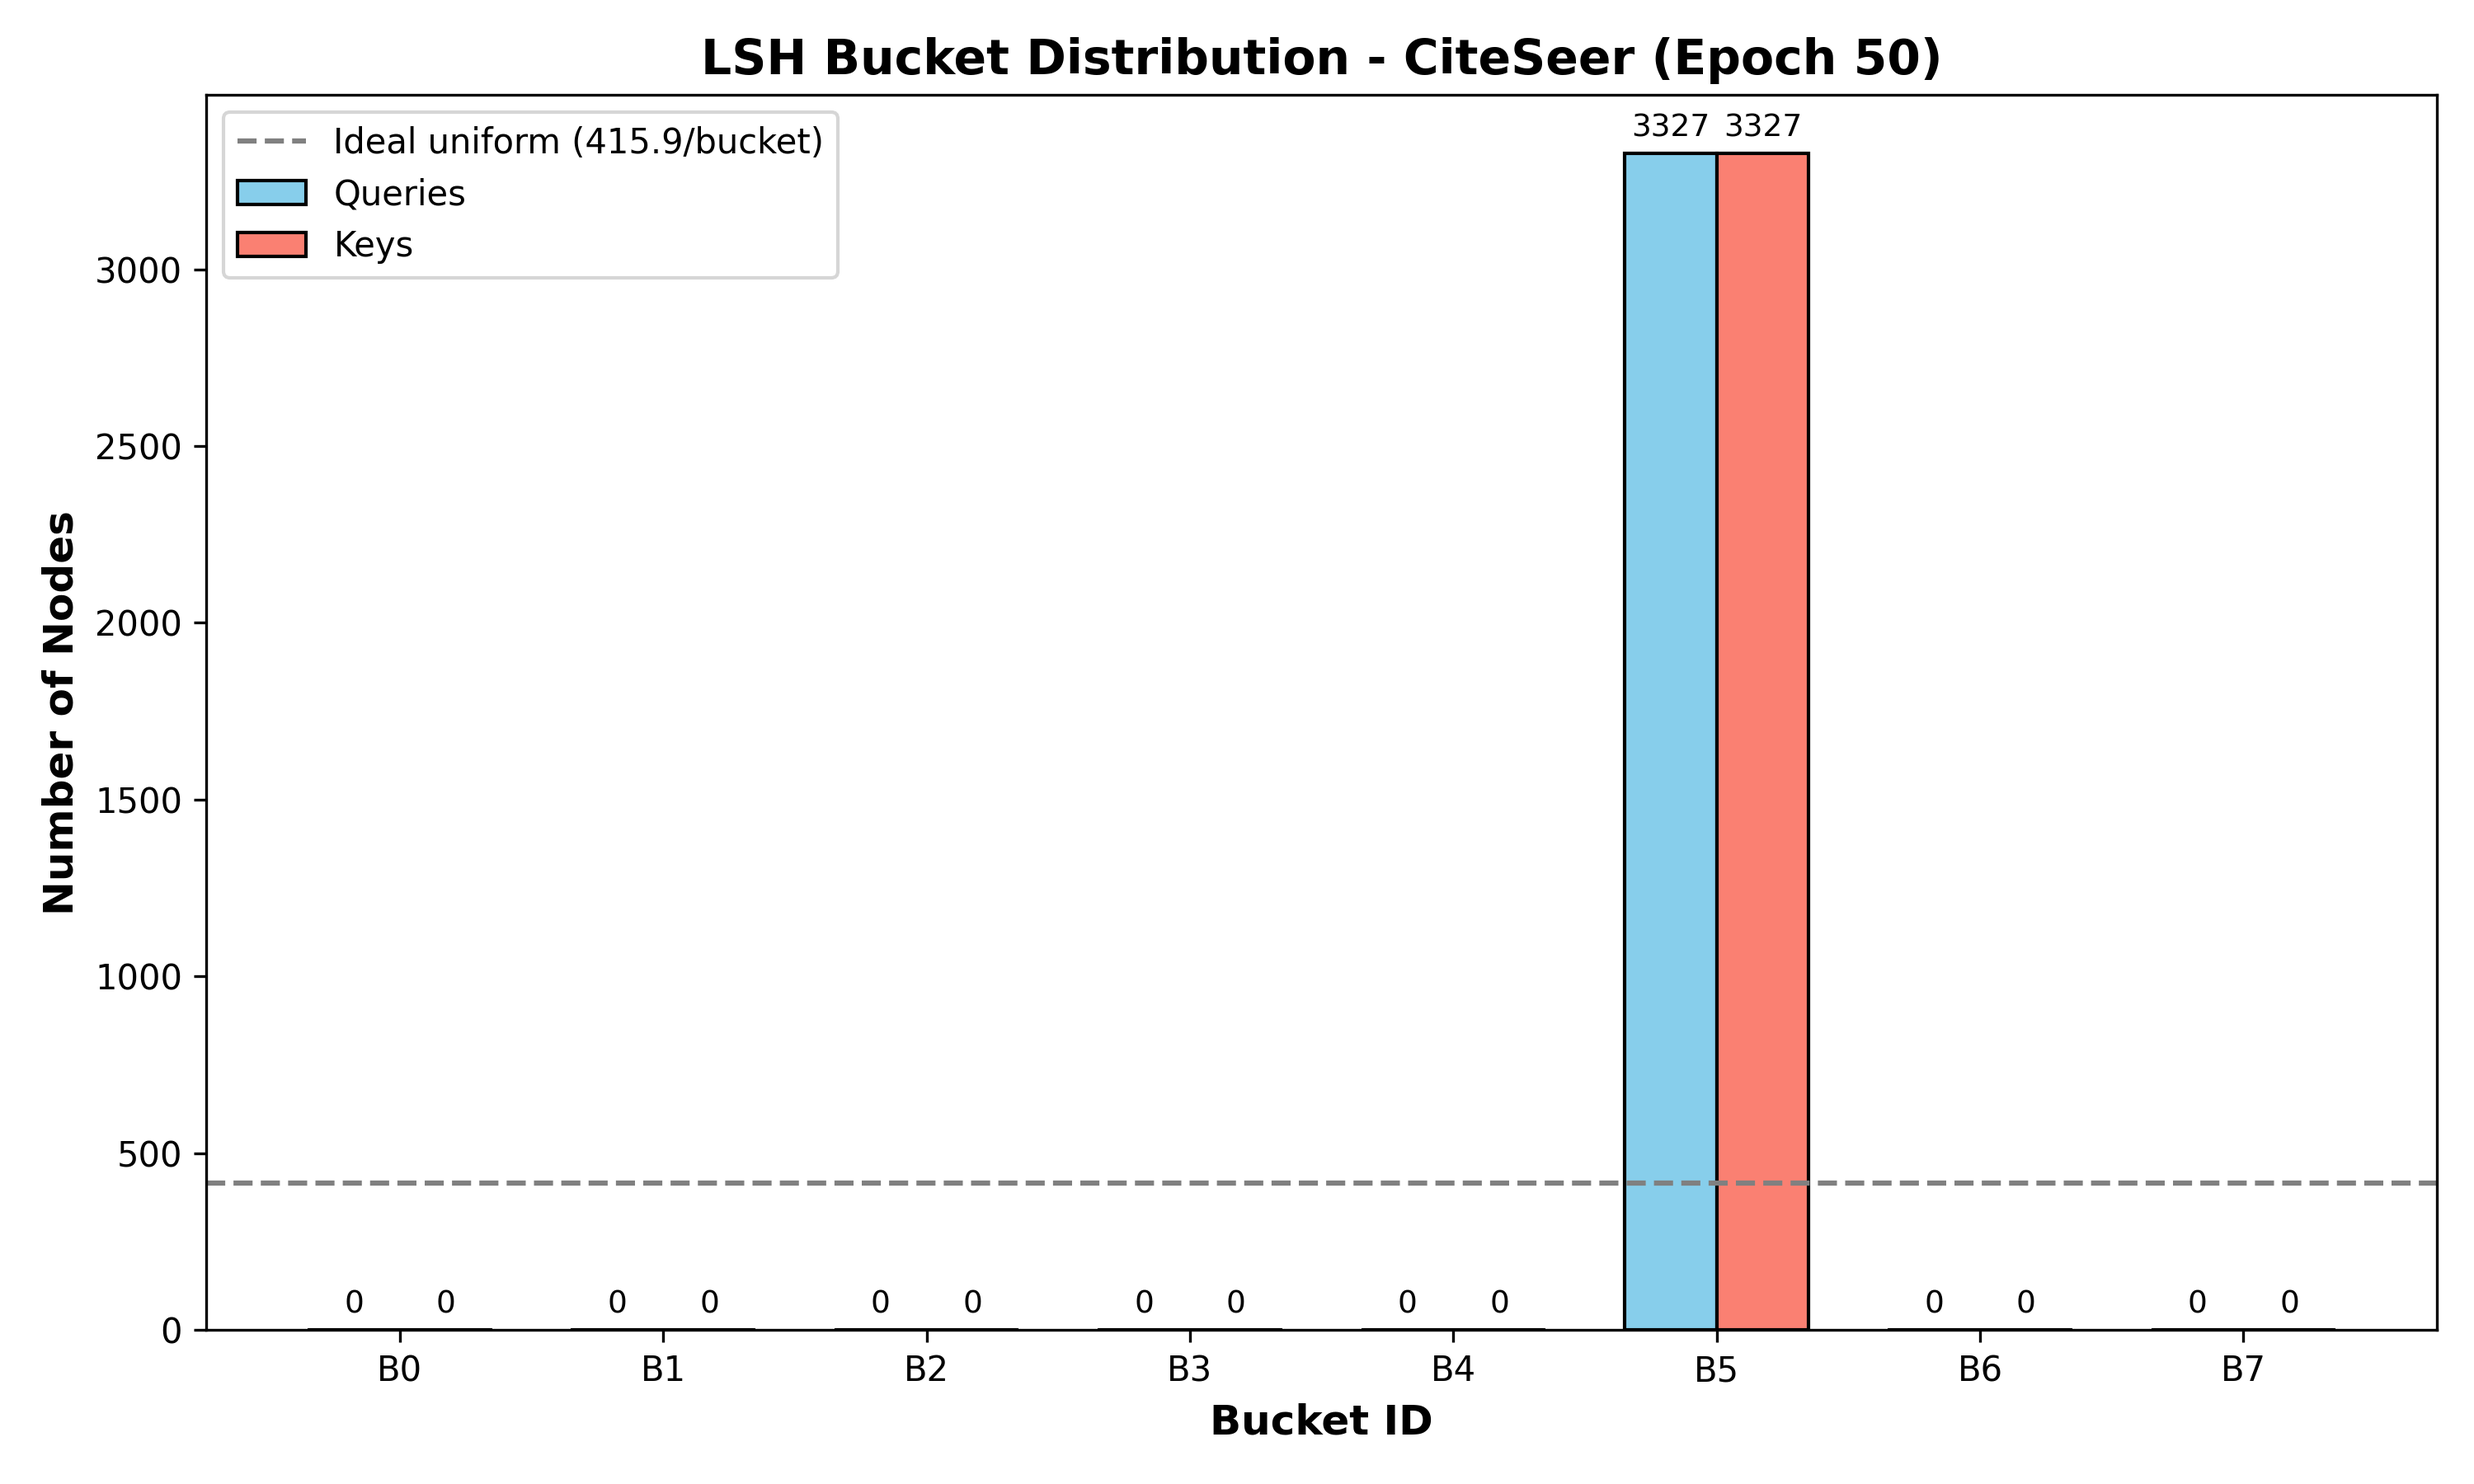
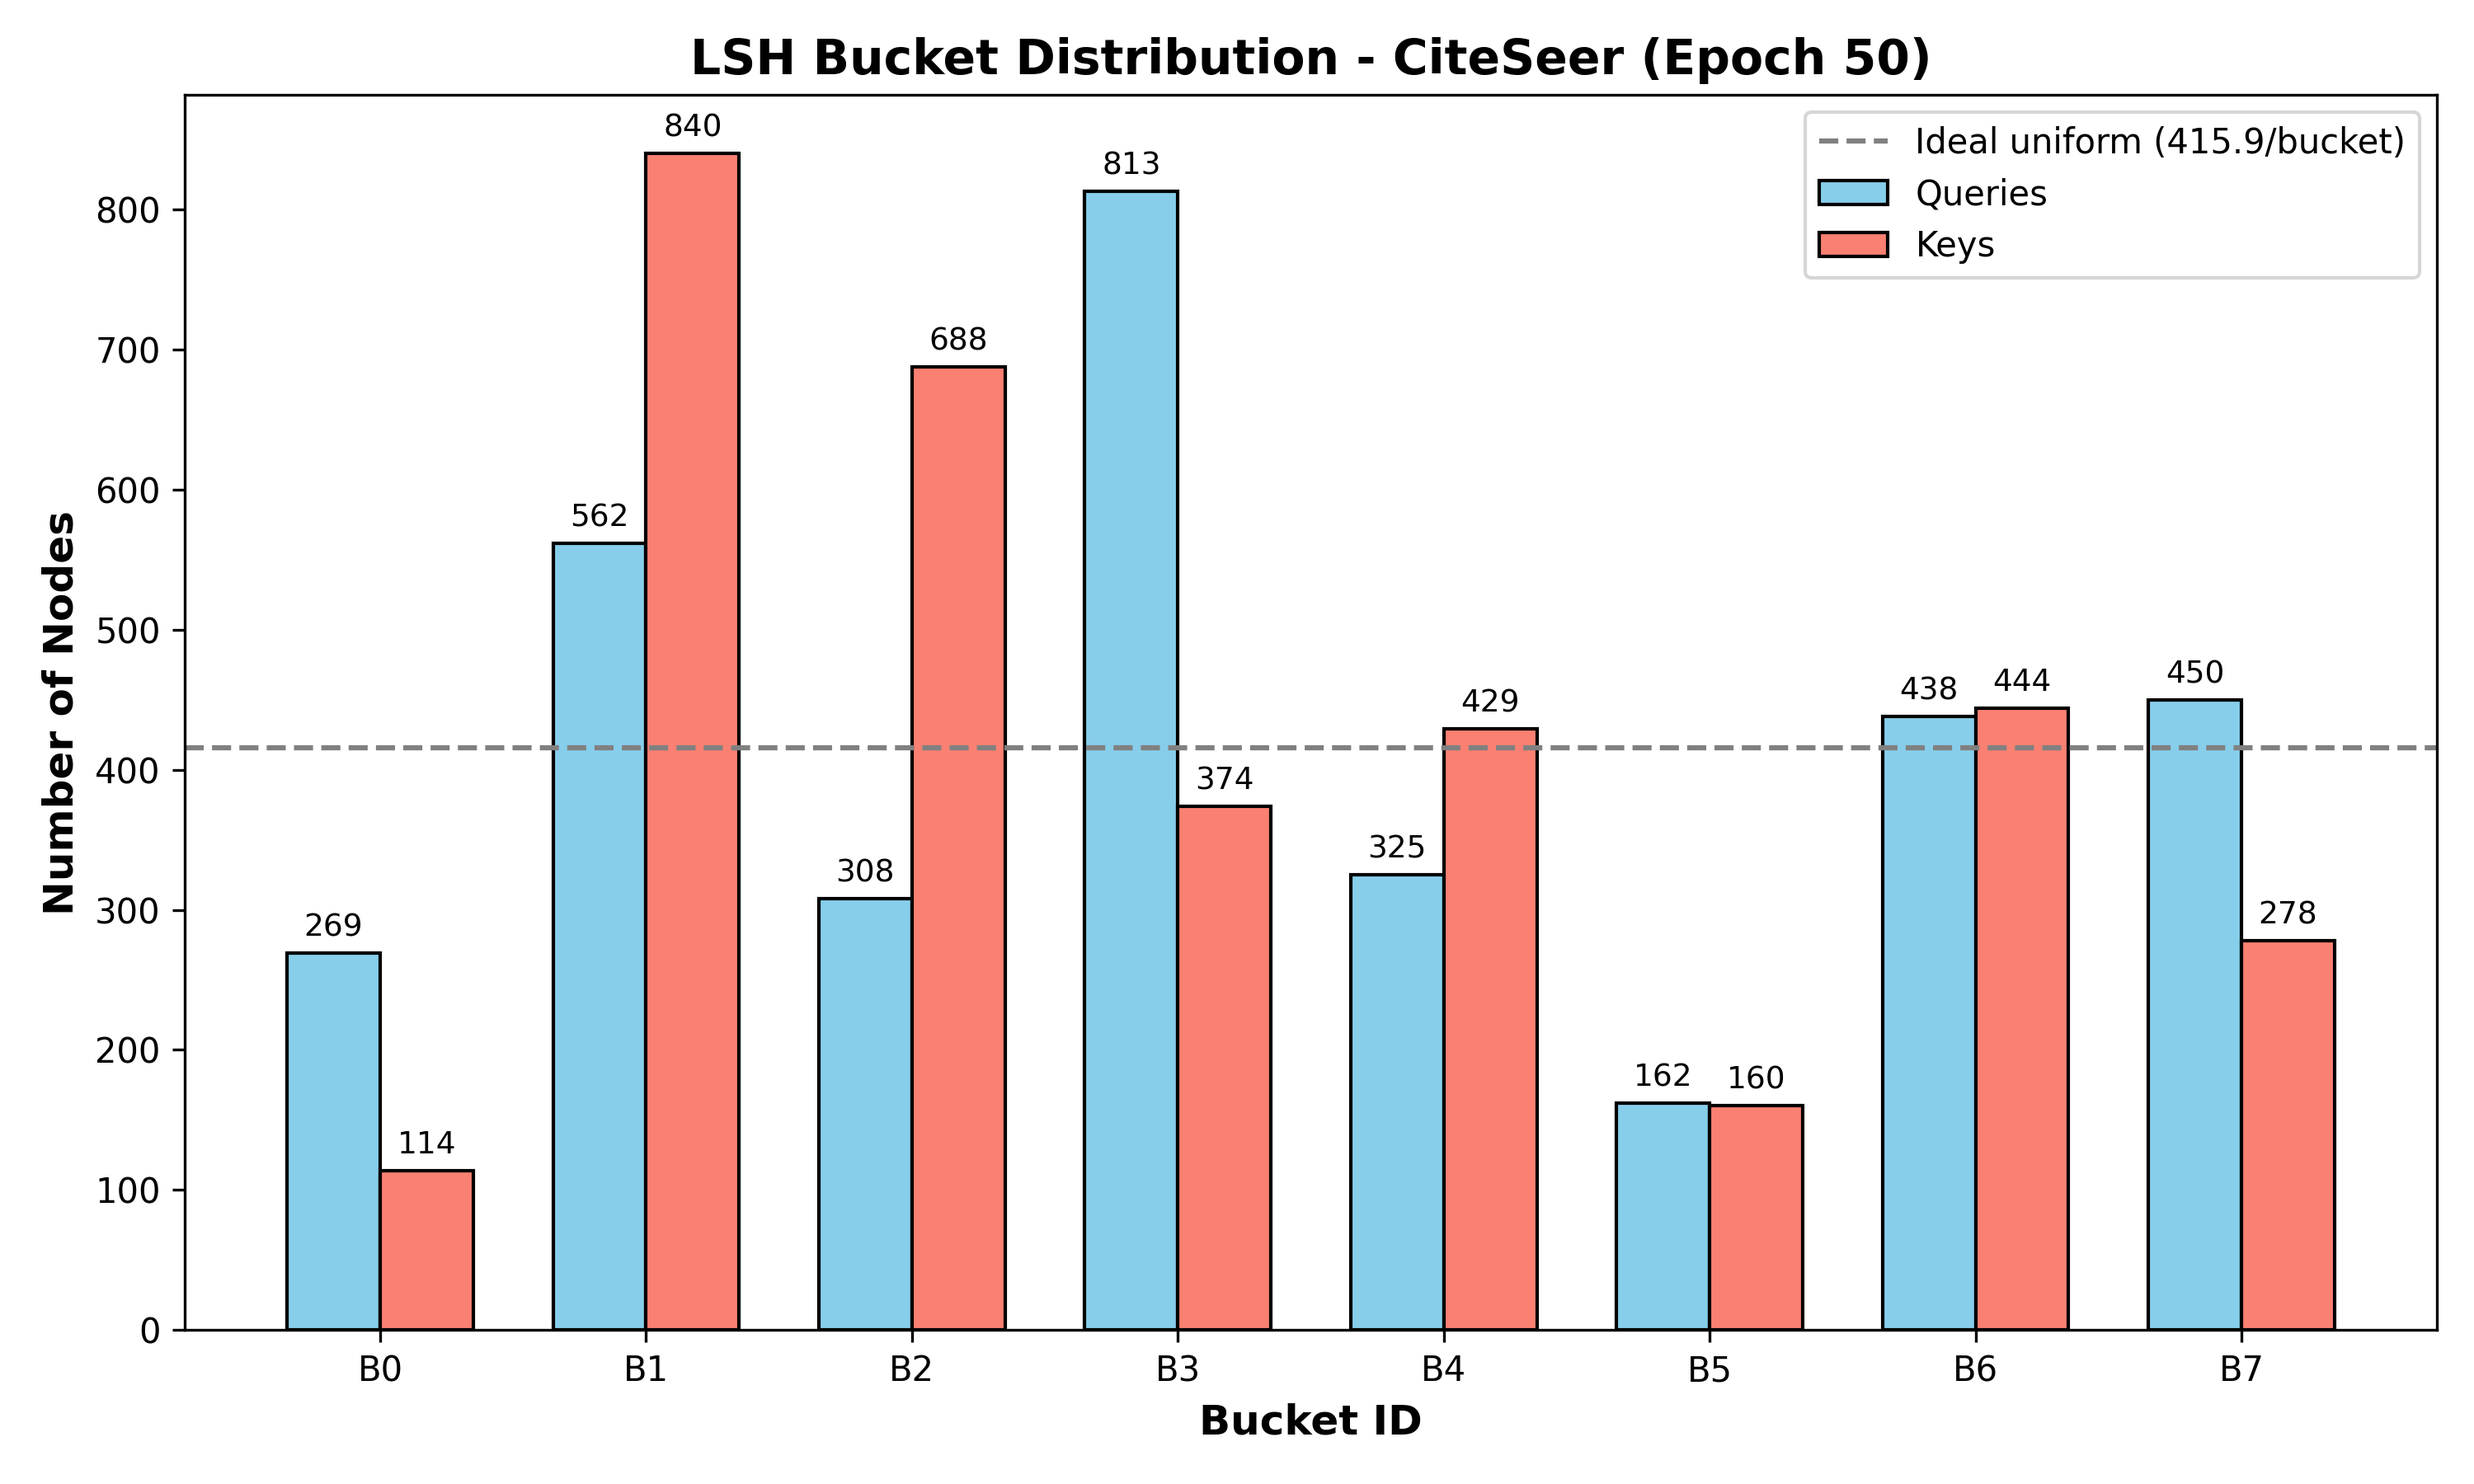
added load balancing loss

diff --git a/src/train.py b/src/train.py
@@ -21,6 +21,7 @@ from .data_loader              import load_dataset
 from .model.transformer_model  import SparseGraphTransformer
 from .hyperparameters.config   import get_config
 from .losses.hash_loss         import hash_supervision_loss
+from .losses.load_balancing_loss import load_balancing_loss
 from .losses.reconstruction_loss import recovery_loss
 from .utils import log, plot_training, plot_bucket_distribution
 
@@ -78,11 +79,18 @@ def train_epoch(model, data, optimizer, config, device):
             bucket_logits_q = aux["bucket_logits"][-1]["q"],
             confidence      = aux["confidences"][-1],
         )
+    
+    # Inside train_epoch
+    L_balance = torch.tensor(0.0, device=device)
+    for bl in aux["bucket_logits"]:
+        L_balance += load_balancing_loss(bl['q']) + load_balancing_loss(bl['k'])
+    L_balance /= len(aux["bucket_logits"])
 
-    # ── Total loss ────────────────────────────────────────────────────
-    loss = (L_task
-            + config.hash_lambda     * L_hash
-            + config.recovery_lambda * L_rec)
+    # Add it to total loss with a tuning coefficient (e.g., 0.1 or 0.01)
+    loss = (L_task + 
+            config.hash_lambda * L_hash + 
+            config.recovery_lambda * L_rec + 
+            config.load_balancing_lamda * L_balance)
 
     loss.backward()
     torch.nn.utils.clip_grad_norm_(model.parameters(), max_norm=1.0)
@@ -93,6 +101,7 @@ def train_epoch(model, data, optimizer, config, device):
         "L_task": L_task.item(),
         "L_hash": L_hash.item(),
         "L_rec" : L_rec.item(),
+        "L_load_balancing": L_balance.item()
     }
 
 
@@ -184,6 +193,7 @@ def main(args):
         "L_task"   : [],
         "L_hash"   : [],
         "L_rec"    : [],
+        "L_load_balancing" : [],
         "train_acc": [],
         "val_acc"  : [],
         "test_acc" : [],
@@ -196,7 +206,7 @@ def main(args):
     os.makedirs("best_models", exist_ok=True)
 
     log(f"{'Epoch':>6} {'Loss':>8} {'L_task':>8} {'L_hash':>8} "
-        f"{'L_rec':>8} {'Train':>7} {'Val':>7} {'Test':>7} {'Time':>6}")
+        f"{'L_rec':>8} {'L_load':>8} {'Train':>7} {'Val':>7} {'Test':>7} {'Time':>6}")
     log("─" * 72)
 
     t0 = time.time()
@@ -214,6 +224,7 @@ def main(args):
         history["L_task"].append(losses["L_task"])
         history["L_hash"].append(losses["L_hash"])
         history["L_rec"].append(losses["L_rec"])
+        history["L_load_balancing"].append(losses["L_load_balancing"])
         history["train_acc"].append(accs["train"])
         history["val_acc"].append(accs["val"])
         history["test_acc"].append(accs["test"])
@@ -231,7 +242,7 @@ def main(args):
             elapsed = time.time() - t0
             t0 = time.time()
             log(f"{epoch:>6} {losses['loss']:>8.4f} {losses['L_task']:>8.4f} "
-                f"{losses['L_hash']:>8.4f} {losses['L_rec']:>8.4f} "
+                f"{losses['L_hash']:>8.4f} {losses['L_rec']:>8.4f} {losses['L_load_balancing']:>8.4f} "
                 f"{accs['train']:>7.4f} {accs['val']:>7.4f} "
                 f"{accs['test']:>7.4f} {elapsed:>5.1f}s")
 

diff --git a/src/hyperparameters/config.py b/src/hyperparameters/config.py
@@ -37,13 +37,16 @@ class ModelConfig:
 
     # ── Hash supervision ──────────────────────────────────────────────
     use_hash_loss: bool = True
-    hash_lambda: float = 0.3       # λ — weight of hash KL loss
+    hash_lambda: float = 0.2       # λ — weight of hash KL loss
     spd_gamma: float = 1.0         # γ in structural utility g()
     spd_delta: float = 0.5         # δ in structural utility g()
 
+    # load_balancing
+    load_balancing_lamda: float = 2.0
+
     # ── Training ──────────────────────────────────────────────────────
     lr: float = 1e-3
-    weight_decay: float = 1e-4
+    weight_decay: float = 5e-4
     epochs: int = 300
     patience: int = 50             # early stopping
     batch_size: int = 1            # full-batch for small graphs

diff --git a/src/losses/load_balancing_loss.py b/src/losses/load_balancing_loss.py
@@ -1,0 +1,20 @@
+import torch
+import torch.nn.functional as F
+
+def load_balancing_loss(bucket_logits):
+    """
+    Computes a loss that encourages uniform distribution of nodes across buckets.
+    Based on the squared coefficient of variation (Standard in MoE).
+    """
+    # Convert logits to probabilities
+    probs = F.softmax(bucket_logits, dim=-1)  # (N, B)
+    
+    # Get the mean probability of a node falling into each bucket
+    mean_probs = probs.mean(dim=0)            # (B,)
+    
+    # Ideal mean_probs is 1/B for all buckets. 
+    # This loss minimizes the variance of the bucket assignments.
+    num_buckets = probs.size(-1)
+    loss = num_buckets * torch.sum(mean_probs ** 2) - 1.0
+    
+    return loss
